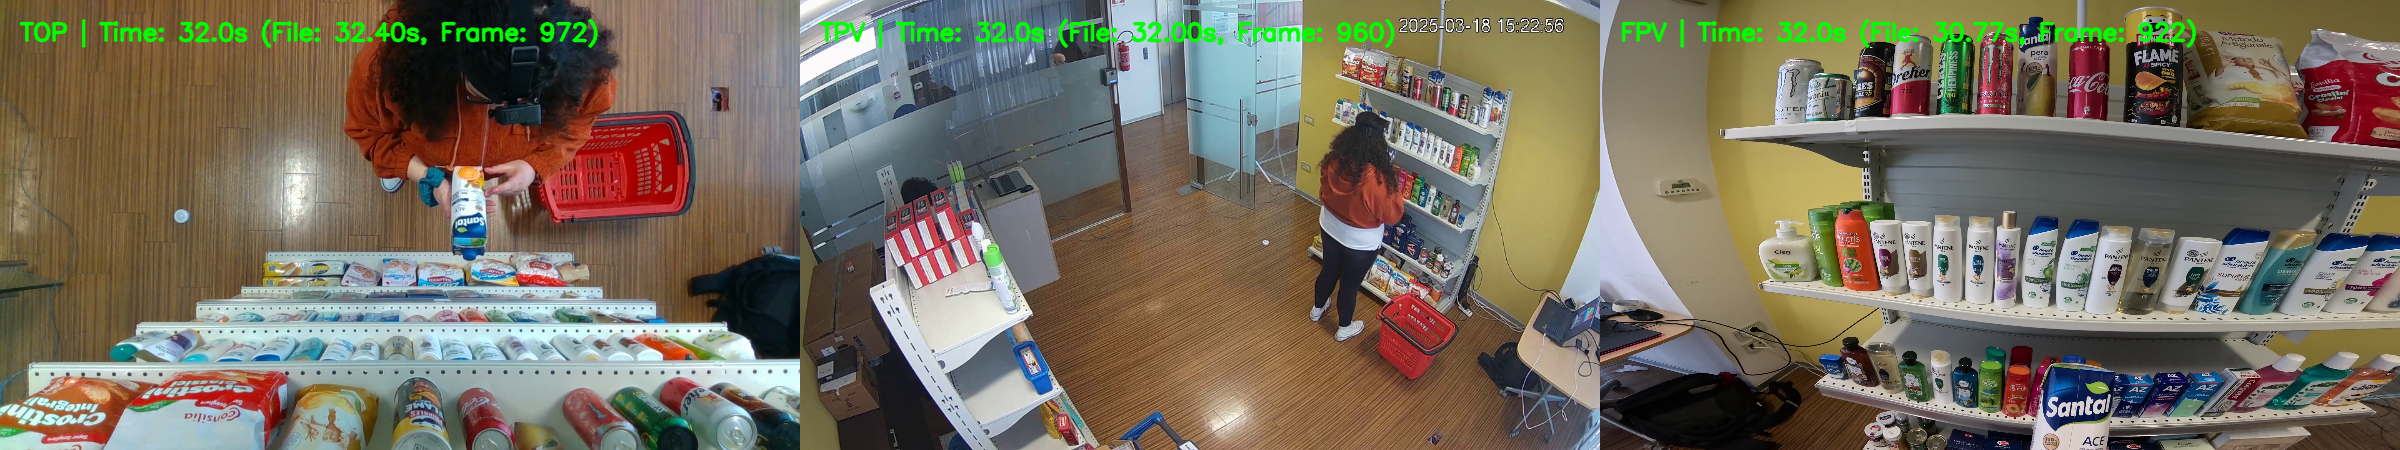
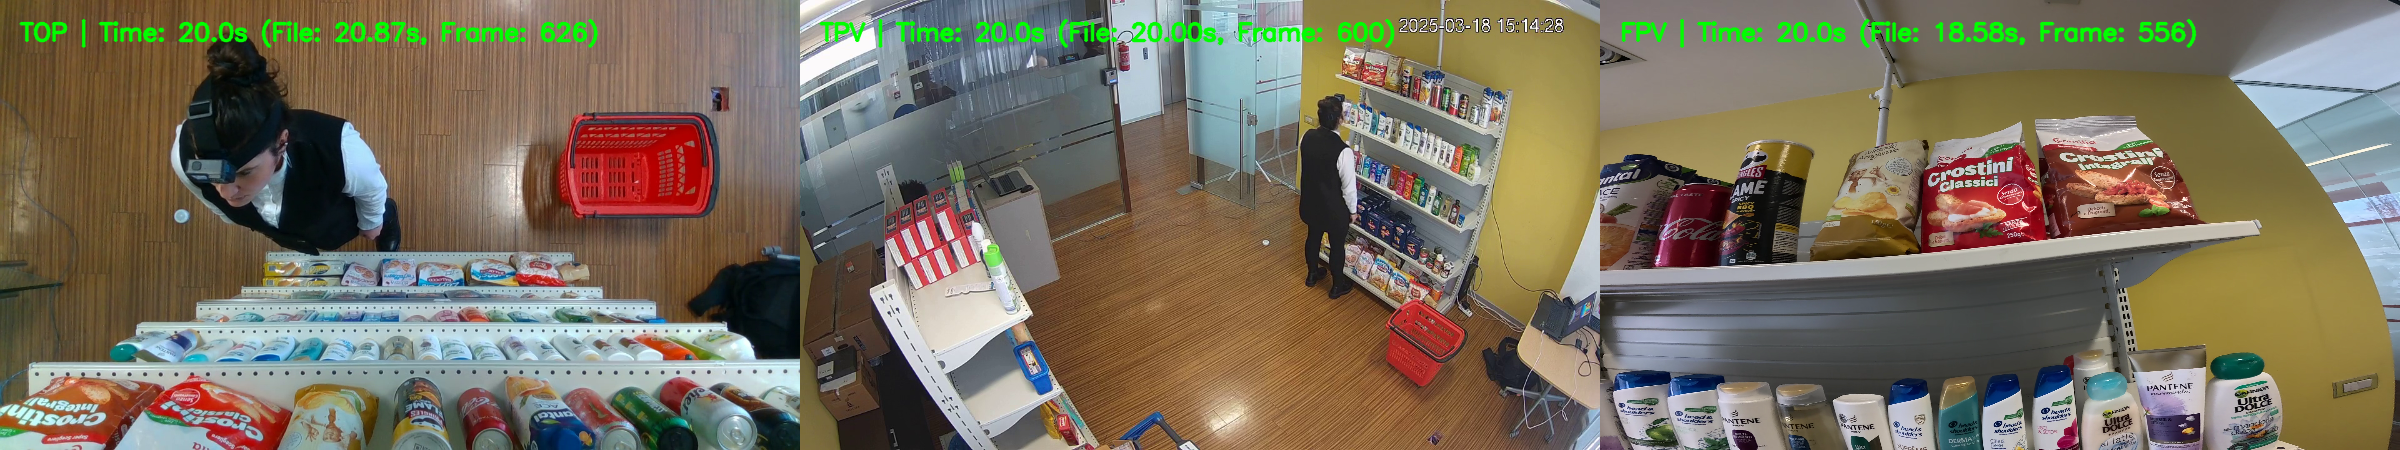
[visualsync] Aggiornati script: exec_visulasync per rimuovere il calcolo dell'offset a segno invertito, ground_truth_extractor e creazioen di run_full_validation modificati per risolvere l'errore su ID_4. Documentato il tutto sul readme.

diff --git a/visualsync/src/custom_scripts/run_full_validation.py b/visualsync/src/custom_scripts/run_full_validation.py
@@ -1,0 +1,117 @@
+#!/usr/bin/env python3
+"""
+run_full_validation.py
+
+Script di orchestrazione totale. 
+1. Calcola il GT con il nuovo Template Matching ROI.
+2. Genera l'immagine di ispezione visiva al secondo 20.0 (punto di controllo).
+3. Stampa il report scientifico delle metriche.
+"""
+
+import os
+import sys
+from pathlib import Path
+
+# Importiamo i moduli costruiti insieme
+import ground_truth_extractor as gte
+import estimate_metrics as em
+
+
+def main():
+    # 1. Controllo ed estrazione delle variabili d'ambiente globali del tuo tmux
+    raw_root = os.environ.get("RAW_ROOT")
+    result_root = os.environ.get("RESULT_ROOT")
+    group_id = os.environ.get("GROUP")
+    fps_env = os.environ.get("FPS")
+
+    if not all([raw_root, result_root, group_id, fps_env]):
+        print("[!] Errore: Variabili d'ambiente mancanti nel tmux.", file=sys.stderr)
+        print("    Assicurati che RAW_ROOT, RESULT_ROOT, GROUP e FPS siano esportate.", file=sys.stderr)
+        sys.exit(1)
+
+    fps_esperimento = float(fps_env)
+    id_dir = Path(raw_root) / group_id
+    
+    # IMPOSTAZIONE STRATEGICA: Salviamo nella cartella corrente con il nome fisso richiesto
+    output_png = Path("sync_interactive_check.png")
+
+    print("\n" + "="*75)
+    print(f" PIPELINE DI VALIDAZIONE AUTOMATICA: {group_id} (@ {fps_esperimento} FPS)")
+    print("="*75)
+
+    # 2. FASE 1: Calcolo automatico del Ground Truth con l'algoritmo ROI + Soglia 0.6
+    print("[*] Fase 1: Calcolo del Ground Truth via Anchor Template Matching (ROI)...")
+    sync_data = gte.get_all_synchronization_data(raw_root, [group_id])
+    
+    # Estraiamo gli offset globali in secondi calcolati (TPV è il perno a 0.0)
+    gt_offsets_sec = sync_data[group_id]["global_offsets_secondi"]
+    
+    print("\n>>> GROUND TRUTH RILEVATO (Rispetto al pivot TPV):")
+    for view in ["TOP", "TPV", "FPV"]:
+        print(f"    {view:4s} -> {gt_offsets_sec[view]:+.2f} secondi")
+
+    # 3. FASE 2: Generazione istantanea del frame di ispezione visiva (Video Inspector)
+    print("\n[*] Fase 2: Generazione immagine ad alta risoluzione (Video Inspector)...")
+    print(f"    Punto di controllo visivo impostato al secondo: 20.0s")
+    
+    try:
+        import video_inspector as vi
+        # Usiamo una larghezza generosa (800px per vista) per l'ispezione a occhio nudo
+        vi.extract_and_save_canvas(
+            id_dir=id_dir,
+            time_ref=20.0,
+            offsets_sec=gt_offsets_sec,
+            output_name=str(output_png),
+            width_per_view=800
+        )
+        print(f"[+] Immagine di controllo aggiornata in: {output_png.resolve()}")
+    except Exception as e:
+        print(f"[!] Errore durante il rendering dell'immagine dell'inspector: {e}", file=sys.stderr)
+
+    # 4. FASE 3: Calcolo ed emissione delle metriche scientifiche del modello
+    print("\n[*] Fase 3: Calcolo delle metriche di allineamento del modello...")
+    
+    # Eseguiamo il core logico importato da estimate_metrics
+    # Passiamo prima la directory principale, ma se fallisce facciamo il tentativo nella sottocartella
+    res_dict = em.compute_metrics(raw_root, result_root, group_id, fps_esperimento)
+    
+    if not res_dict.get("success", False):
+        # Fallback di sicurezza se il CSV si trova nella sottocartella prin_ID_X_FPS_30
+        sub_result_dir = Path(result_root) / f"prin_{group_id}_{int(fps_esperimento)}_30"
+        res_dict = em.compute_metrics(raw_root, sub_result_dir, group_id, fps_esperimento)
+
+    # Controlliamo se il calcolo è andato a buon fine
+    if not res_dict.get("success", False):
+        print(f"[!] Errore nel calcolo delle metriche: {res_dict.get('msg', 'Errore sconosciuto')}", file=sys.stderr)
+        sys.exit(1)
+
+    # Estrazione dei dati dal dizionario di output di compute_metrics
+    metrics = res_dict["metrics"]
+    details = res_dict["details"]
+    
+    # Stampa del Report Scientifico Elegante
+    print("\n=========================================================================")
+    print(f"    REPORT DI VALUTAZIONE SCIENTIFICA REALE: {group_id} (@ {fps_esperimento} FPS)")
+    print("=========================================================================")
+    print(" [A] CONFRONTO DIRETTO DELLE VISTE (Rispetto al pivot TPV = 0.0):")
+    
+    for view in ["TOP", "FPV"]:
+        gt_sec = details["gt_seconds"].get(view, 0.0)
+        gt_fr = gt_sec * fps_esperimento
+        pred_fr = details["pred_frames"].get(view, 0.0)
+        err_ms = details["views"].get(view, 0.0)
+        
+        print(f"     Vista {view:4s} | GT: {gt_sec:+.2f}s ({gt_fr:+.1f} f) | Pred: {pred_fr:+.1f} f | Errore: {err_ms:.2f} ms")
+        
+    print("\n [B] METRICHE COMPLESSIVE DEL PAPER (VisualSync):")
+    print(f"     Errore Medio (Mean Error):      {metrics['mean_error_ms']:.2f} ms")
+    print(f"     Errore Mediano (Median Error):   {metrics['median_error_ms']:.2f} ms")
+    print(f"     Accuratezza @ 100ms (A@100ms):   {metrics['A@100ms']:.1f}%")
+    print(f"     Accuratezza @ 500ms (A@500ms):   {metrics['A@500ms']:.1f}%")
+    print(f"     Area Sotto la Curva (AUC):       {metrics['AUC']:.4f}")
+    print("=========================================================================")
+    print("[+] Validazione completata con successo!\n")
+
+
+if __name__ == "__main__":
+    main()

diff --git a/visualsync/src/custom_scripts/ground_truth_extractor.py b/visualsync/src/custom_scripts/ground_truth_extractor.py
@@ -42,33 +42,35 @@ def find_synchronized_video(id_dir: Path, view: str) -> Optional[Path]:
 
 def find_exact_start_cut_seconds(orig_path: Path, sync_path: Path, max_search_seconds: float = 60.0) -> float:
     """
-    METODO 1: TEMPLATE MATCHING TEMPORALE (Risoluzione-Resiliente)
-    Trova l'esatto secondo di taglio iniziale confrontando le immagini pixel per pixel.
-    Forza la corrispondenza delle dimensioni dei frame per evitare errori di formato.
+    METODO 1 - VERSIONE SENZA COMPROMESSI: MINIMO GLOBALE SULLA ROI CENTRAL
+    Rimuove completamente l'early stopping. Scansiona l'intera timeline per trovare
+    il punto di minimo assoluto della differenza, risolvendo i match ciclici/ripetitivi.
     """
-    # 1. Estrazione del primo frame utile dal video sincronizzato di riferimento
+    anchor_seconds = 10.0
+    
     cap_sync = cv2.VideoCapture(str(sync_path))
+    sync_fps = cap_sync.get(cv2.CAP_PROP_FPS) or 30.0
+    anchor_frame_sync = int(anchor_seconds * sync_fps)
+    
+    cap_sync.set(cv2.CAP_PROP_POS_FRAMES, anchor_frame_sync)
     ret_s, frame_sync = cap_sync.read()
     cap_sync.release()
     
     if not ret_s:
-        print(f"  [!] Impossibile leggere il primo frame di: {sync_path.name}", file=sys.stderr)
         return 0.0
         
-    # Conversione in grigio e downscaling del target per velocizzare
     gray_sync = cv2.cvtColor(frame_sync, cv2.COLOR_BGR2GRAY)
     gray_sync = cv2.resize(gray_sync, (0, 0), fx=0.5, fy=0.5)
+    h, w = gray_sync.shape[:2]
     
-    # Memorizziamo l'esatta forma geometrica (Altezza, Larghezza) che ci serve per il confronto
-    target_height, target_width = gray_sync.shape[:2]
+    # ROI Centrale (manteniamo il focus sull'area dell'azione)
+    start_y, end_y = int(h * 0.2), int(h * 0.8)
+    start_x, end_x = int(w * 0.2), int(w * 0.8)
+    roi_sync = gray_sync[start_y:end_y, start_x:end_x]
     
-    # 2. Scansione del video originale alla ricerca del frame identico
     cap_orig = cv2.VideoCapture(str(orig_path))
-    orig_fps = cap_orig.get(cv2.CAP_PROP_FPS)
-    if not orig_fps or orig_fps <= 0:
-        orig_fps = 30.0
-        
-    max_search_frames = int(max_search_seconds * orig_fps)
+    orig_fps = cap_orig.get(cv2.CAP_PROP_FPS) or 30.0
+    max_search_frames = int((max_search_seconds + anchor_seconds) * orig_fps)
     
     best_match_frame = 0
     min_difference = float('inf')
@@ -80,29 +82,26 @@ def find_exact_start_cut_seconds(orig_path: Path, sync_path: Path, max_search_se
             break
             
         gray_orig = cv2.cvtColor(frame_orig, cv2.COLOR_BGR2GRAY)
+        gray_orig_resized = cv2.resize(gray_orig, (w, h))
+        roi_orig = gray_orig_resized[start_y:end_y, start_x:end_x]
         
-        # SOLUZIONE: Invece di applicare fx/fy liberi, forziamo il frame originale ad assumere
-        # le identiche dimensioni (pixel per pixel) del frame di riferimento sincronizzato.
-        gray_orig_resized = cv2.resize(gray_orig, (target_width, target_height))
-        
-        # Adesso le dimensioni sono identiche al 100% e absdiff non fallirà mai
-        diff = cv2.absdiff(gray_sync, gray_orig_resized)
+        diff = cv2.absdiff(roi_sync, roi_orig)
         mean_diff = np.mean(diff)
         
+        # CRUCIALE: Memorizziamo il record ma NON interrompiamo il ciclo.
+        # Vogliamo trovare l'istante in cui la differenza tocca il fondo assoluto del grafico.
         if mean_diff < min_difference:
             min_difference = mean_diff
             best_match_frame = count
-            
-        if mean_diff < 1.5:
-            best_match_frame = count
-            break
             
         count += 1
         
     cap_orig.release()
     
-    cut_seconds = -(best_match_frame / orig_fps)
-    return cut_seconds
+    anchor_seconds_in_orig = best_match_frame / orig_fps
+    real_start_seconds_in_orig = anchor_seconds_in_orig - anchor_seconds
+    
+    return -real_start_seconds_in_orig
 
 
 def get_durations(root_path: str | Path, ids: list[str]) -> dict[str, dict[str, dict[str, float]]]:

diff --git a/visualsync/src/custom_scripts/exec_visualsync.py b/visualsync/src/custom_scripts/exec_visualsync.py
@@ -56,7 +56,7 @@ def run_pipeline(group_id, start_sec, end_sec, fps, start_from_step=None):
             "rm -rf \"$TRACK_ROOT\"",
             "mkdir -p \"$TRACK_ROOT\"",
             "python src/run_cotracker_all.py --dataset_root \"$DATA_ROOT\" --track_root \"$TRACK_ROOT\" --gpu 0 --mask_prefix \"$MASK_PREFIX\" --only static --static_interval 3 --static_grid_step 5 --max_query_per_batch 200 --skip_exist",
-            "python src/run_cotracker_all.py --dataset_root \"$DATA_ROOT\" --track_root \"$TRACK_ROOT\" --gpu 0 --mask_prefix \"$MASK_PREFIX\" --only fpv --dynamic_interval 12 --dynamic_grid_step 15 --max_query_per_batch 120 --skip_exist"
+            "python src/run_cotracker_all.py --dataset_root \"$DATA_ROOT\" --track_root \"$TRACK_ROOT\" --gpu 0 --mask_prefix \"$MASK_PREFIX\" --only fpv --dynamic_interval 8 --dynamic_grid_step 10 --max_query_per_batch 120 --skip_exist"
         ]),
         ("Passo 9: Run MASt3R Image Matching", [
             "rm -rf \"$RESULT_ROOT\"",

diff --git a/README.md b/README.md
@@ -724,7 +724,88 @@ Abbiamo fatto diversi tentativi per fare in modo che non avvenisse l'OOM ma cont
   export PYTORCH_CUDA_ALLOC_CONF=expandable_segments:True
   ```
 Dei miglioramenti ci sono stati. infatti il comando per le cam statiche va a buon fine (prima era lui ad avere OOM). L'errore adesso occorre a causa del comando per la cam dinamica.
-Alla fine è stato fatto un tentativo di 15 secondi a 15 fps che è andato a buon fineI
+Alla fine è stato fatto un tentativo di 15 secondi a 15 fps che è andato a buon fine.
+
+### 7a esecuzione:
+Nuovo tentativo con queste impostazioni:
+```text
+GROUP = ID_3
+START_SEC = 30
+END_SEC = 40
+FPS = 20
+```
+Abbiamo divuto stoppare l'esecuzione al punto 10. Questo perchè abbiamo capito che lanciare i 2 comandi del passo 12 (uno per il calcolo degli offset globali normali e uno per quelli a segno invertito), il secondo sovrascriveva i csv del primo (i video rimanevano in due cartelle separate). I csv ci servono per calcolare le metriche andando a confrontare i dati del csv con quelli del ground truth (usati scripts descritti successivamente). Perciò il tempo di esecuzione è sballato (abbiamo solo quello dal passo 10 al passo 12). Però possiamo riportare le metriche:
+
+```bash
+=========================================================================
+    REPORT DI VALUTAZIONE SCIENTIFICA REALE: ID_3 (@ 20.0 FPS)
+=========================================================================
+ [A] CONFRONTO DIRETTO DELLE VISTE (Rispetto al pivot TPV = 0.0):
+     Vista TOP  | GT: -1.30s (-26.0 f) | Pred: -21.0 f | Errore: 250.00 ms
+     Vista FPV  | GT: +0.69s (+13.7 f) | Pred: -25.0 f | Errore: 1936.77 ms
+
+ [B] METRICHE COMPLESSIVE DEL PAPER (VisualSync):
+     Errore Medio (Mean Error):      1093.38 ms
+     Errore Mediano (Median Error):   1093.38 ms
+     Accuratezza @ 100ms (A@100ms):   0.0%
+     Accuratezza @ 500ms (A@500ms):   50.0%
+     Area Sotto la Curva (AUC):       0.4535
+=========================================================================
+```
+
+### 8a esecuzione:
+Nell'ottava esecuzione abbiamo testato anche il fatto che lo script per l'esecuzioen è in grado di iterare più gruppi di video nella stessa esecuzione. Di fatti abbiamo applicato il modello su `ID_4` e `ID_5` con le stesse seguenti impostazioni:
+```
+START_SEC = 30
+END_SEC = 40
+FPS = 25
+```
+Lo script per l'esecuzione stampa entrambi i tempi di esecuzione in una tabella:
+```
+==============================
+RIEPILOGO TEMPI
+==============================
+ID_4            | 6436.43 s
+ID_5            | 8051.52 s
+```
+
+Commentiamo separatamente la valutazione dei due gruppi:
+- `ID_4`: Prima di riportare la valutazione c'è da dire che solo per questo id, il gt calcolato dallo script non è corretto (di fatti con tale offset le viste non sono sincronizzate) e quindi le metriche non sono veritiere. Come verrà descritto successivamente nella sezioen del rispettivo script, sono stati fatti aggiornamenti che hanno visto un miglioramento ma comunque un errore persiste. Lascio comunque le valutazioni con la possibilità di sostituirle a problema risolto:
+  ```
+  =========================================================================
+      REPORT DI VALUTAZIONE SCIENTIFICA REALE: ID_4 (@ 25.0 FPS)
+  =========================================================================
+  [A] CONFRONTO DIRETTO DELLE VISTE (Rispetto al pivot TPV = 0.0):
+      Vista TOP  | GT: +5.73s (+143.3 f) | Pred: -24.0 f | Errore: 6693.33 ms
+      Vista FPV  | GT: +8.02s (+200.5 f) | Pred: +17.0 f | Errore: 7341.73 ms
+
+  [B] METRICHE COMPLESSIVE DEL PAPER (VisualSync):
+      Errore Medio (Mean Error):      7017.53 ms
+      Errore Mediano (Median Error):   7017.53 ms
+      Accuratezza @ 100ms (A@100ms):   0.0%
+      Accuratezza @ 500ms (A@500ms):   0.0%
+      Area Sotto la Curva (AUC):       0.0000
+  =========================================================================
+  ```
+
+- `ID_5`: Qui l'errore nel calcolo del gt sembra non esserci. Perciò le metriche di valutazioen sono corrette
+  ```
+  =========================================================================
+      REPORT DI VALUTAZIONE SCIENTIFICA REALE: ID_5 (@ 25.0 FPS)
+  =========================================================================
+  [A] CONFRONTO DIRETTO DELLE VISTE (Rispetto al pivot TPV = 0.0):
+      Vista TOP  | GT: -0.87s (-21.7 f) | Pred: +13.0 f | Errore: 1386.67 ms
+      Vista FPV  | GT: +1.42s (+35.5 f) | Pred: +0.0 f | Errore: 1419.67 ms
+
+  [B] METRICHE COMPLESSIVE DEL PAPER (VisualSync):
+      Errore Medio (Mean Error):      1403.17 ms
+      Errore Mediano (Median Error):   1403.17 ms
+      Accuratezza @ 100ms (A@100ms):   0.0%
+      Accuratezza @ 500ms (A@500ms):   0.0%
+      Area Sotto la Curva (AUC):       0.2985
+  =========================================================================
+  ```
+
 
 ## SCRIPTS
 
@@ -783,7 +864,10 @@ Appena eseguito comparirà a schermo un prompt che chiederà l'inserimento dei d
 ---
 ### `ground_truth_extractor.py`
 Questo script serve per elaborare le durate dei video del dataset per recuperare i valori di offset pairwise e globali che possono fungere da ground_truth del modello e quindi possono aiutare a valutare l'errore e quindi la bontà della risposta del modello. 
-Inizialmente la prima versione sfruttava le sole durate dei video originali e quelli sincronizzati e faceva la differenza ma il risultato non era corretto. Perciò nella versione attuale viene preso il primissimo frame del video sincronizzato e si confronta con i frame del rispettivo video orignale per vedere a che minutaggio compare così da calcolare gli offset.
+
+`v2`: Inizialmente la prima versione sfruttava le sole durate dei video originali e quelli sincronizzati e faceva la differenza ma il risultato non era corretto. Perciò nella versione attuale viene preso il primissimo frame del video sincronizzato e si confronta con i frame del rispettivo video orignale per vedere a che minutaggio compare così da calcolare gli offset.
+
+`v3`: Nella terza versione si è cercato di risolvere il problema che ha afflitto il calcolo del gt per l'`ID_4` (come descritto nella rispettiva esecuzione). Si è pensato che la staticità dei video nei primi secondi poteva far risultare uguali tanti frame e quindi indurre l'errore nel calcolo del gt. Quindi si è preso come frame da confrontare quello di un istante di tempo più avanti (dove c'è più probabilità che ci sia movimento). Inoltre si è tolta la tolleranza dell'errore medio visto che si confrontano gli stessi video tagliati, l'errore tra lo stesso frame dovrebbe essere 0. L'errore per l'ID_4 sembra essersi ridotto ma persiste ugualmente. Si prevedono altre migliorie per eliminare l'errore
 
 Questo script mette a disposizione delle funzioni che poi verranno utilizzate dal prossimo script che servirà per il calcolo delle metriche. Inoltre è comunque possibile eseguirlo per stampare sul terminale i dati (durate, offsets, ...) di alcuni gruppi di video. Si può eseguire con il comando come nel seguente esempio:
 ```bash
@@ -812,6 +896,13 @@ python src/custom_scripts/video_inspector.py
 ```
 Ovviamente, anche questo script deve essere preceduto da un setting delle variabile globali.
 
+---
+### `run_full_validation.py`
+Questo script unisce  `ground_truth_extractor.py`, `video_inspector.py` e `estimate_metrics.py` sempre previo setting delle variabili globali. Infatti serve per calcolare il gt di un ID per poi passare i valori al video inspector per essere sicuri che il gt sia corretto (è stato utile per valutare l'errore dell'ID_4) e poi passarli al calcolo delle metriche dove sono utili per calcolare l'errore.
+Possiamo lanciarlo con il comando:
+```bash
+python src/custom_scripts/run_full_validation.py
+```
 
 
 